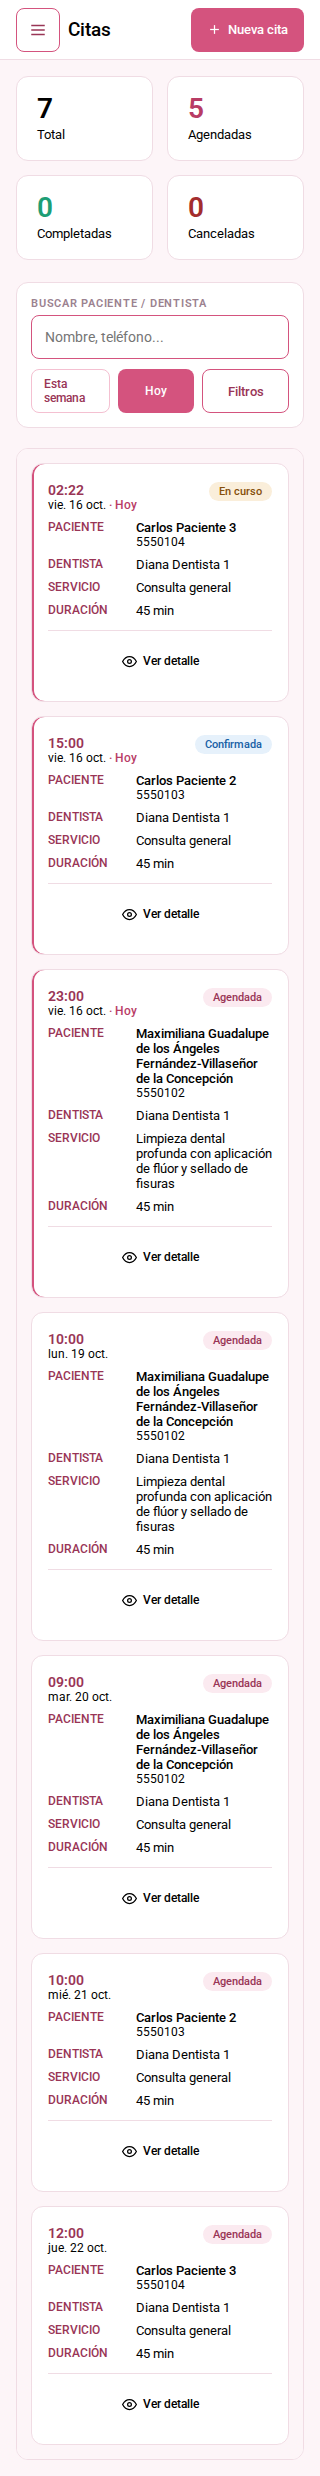
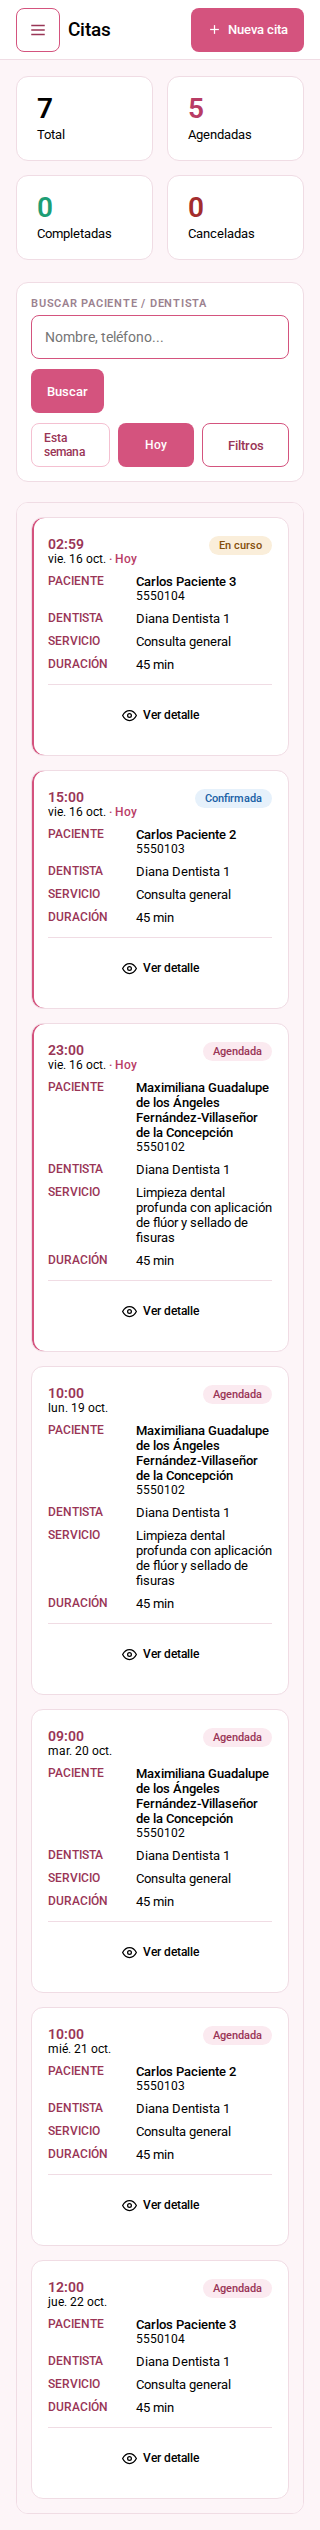
test(034): T046 verificación final de la ronda, capturas de servicios y citas y T092 spec implemented
Cubre: CA2, CA3, CA4, CA5, CA6, CA8, CA10, CA11
Tareas: docs/specs/034-movil-personal/tasks.md

Claude-Session: https://claude.ai/code/session_017sm7frwtJdJ1dPniC2xeL5

diff --git a/docs/specs/034-movil-personal/tasks.md b/docs/specs/034-movil-personal/tasks.md
@@ -141,8 +141,9 @@ Sobre el desglose (el análisis completo está en `plan.md`):
 - [x] T045 Corregir los estilos según T043: `.celda-centrada { text-align: center; }` y `.filtro-citas .field:focus { border-color: var(--border-control); box-shadow: none; }` en el bloque 034 de `app.css`, seguidos de `/* Fin spec 034 */`; `.tabla-tarjetas td { text-align: start; }` en la media query de `movil.css`; y el comentario de `.sidebar-marca` en el layout («logo con máscara (spec 034, D10)» en lugar de «marca de texto») — public/css/app.css, public/css/movil.css, resources/views/layouts/app.blade.php — hecho cuando: los tests de T043 pasan dos veces y `test_el_bloque_034_de_app_css_reproduce_los_estilos_con_tokens`, `test_los_pares_nuevos_cumplen_aa` y `MovilPacienteTest` siguen en verde · verificación manual: al enfocar con el ratón «Desde» y «Estado» del filtro, el borde sigue siendo el de `--border-control`, a 390 y 1440 — cubre: CA4, CA5, CA10, CA11 — depende: T044
   - nota: añadida por /review: R1, R5, R6, R10
   - nota: en la verificación manual, el usuario vio «Buscar» pegado al campo: se añadió `.filtro-buscar .btn { margin-top: var(--space-4); }` en `movil.css` (test antes, falló y luego pasó). Pasan dos veces los tests de T043 y `MovilPacienteTest` (50 en verde). `--medir` con línea base de la sesión: «todo en orden». Con Playwright, al hacer clic en «Desde» y «Estado» a 390 y 1440, el borde queda en `--border-control` (rgb(212, 83, 126)) y sin sombra. Verificación manual OK 2026-10-16 (usuario).
-- [ ] T046 Repetir la verificación final de la ronda: `php artisan test` completo en verde (306 más los nuevos); `pint --test` en `MovilPersonalTest`; `node docs/design/capturar.mjs --medir` con código 0 y la línea base de v0.7.0 de la misma sesión; rehacer con `capturar.mjs` las capturas de `servicios-index` y `citas-index-{admin,dentista,asistente}` a 320, 390 y 1440; gitleaks sobre `5a802e6..HEAD` sin fugas; `composer audit` y `npm audit` sin avisos nuevos; y borrar la base `dentissa_capturas`, sus dos servidores, el volumen `dentissa_pw_node`, la copia `git worktree` de v0.7.0 con su `.env` y la carpeta temporal — docs/design/capturas/ (generado por node capturar.mjs) — hecho cuando: todo lo anterior pasa y queda anotado — cubre: CA2, CA3, CA4, CA5, CA6, CA8, CA10, CA11 — depende: T045
+- [x] T046 Repetir la verificación final de la ronda: `php artisan test` completo en verde (306 más los nuevos); `pint --test` en `MovilPersonalTest`; `node docs/design/capturar.mjs --medir` con código 0 y la línea base de v0.7.0 de la misma sesión; rehacer con `capturar.mjs` las capturas de `servicios-index` y `citas-index-{admin,dentista,asistente}` a 320, 390 y 1440; gitleaks sobre `5a802e6..HEAD` sin fugas; `composer audit` y `npm audit` sin avisos nuevos; y borrar la base `dentissa_capturas`, sus dos servidores, el volumen `dentissa_pw_node`, la copia `git worktree` de v0.7.0 con su `.env` y la carpeta temporal — docs/design/capturas/ (generado por node capturar.mjs) — hecho cuando: todo lo anterior pasa y queda anotado — cubre: CA2, CA3, CA4, CA5, CA6, CA8, CA10, CA11 — depende: T045
   - nota: añadida por /review: verificación de R1–R7, R10 y R11 (`--medir` obligatorio al tocar `movil.css` y el layout, AGENTS.md)
+  - nota: 2026-10-16. `php artisan test`: 310 en verde (5099 aserciones). `pint --test` en `MovilPersonalTest`: pasa. `--medir` con la línea base de v0.7.0 de la misma sesión: código 0, «medir: todo en orden». Capturas rehechas: `servicios-index` a 320 y 390 y `citas-index-{admin,dentista,asistente}` a 320, 390 y 1440 (`servicios-index-1440` sale idéntica). gitleaks sobre `5a802e6..HEAD`: sin fugas. `composer audit` sin avisos; `npm audit` 0. Borrados la base `dentissa_capturas`, los dos servidores, el volumen `dentissa_pw_node`, la copia `git worktree` de v0.7.0 con su `.env` y la carpeta temporal.
 
 ## Integración y documentación
 - [x] T040 Hacer la verificación final: `php artisan test` completo con la línea base de T002 más los tests nuevos, todos en verde; `pint --test` en los PHP tocados; `node docs/design/capturar.mjs --medir` con código 0 (todas las pantallas incluidas y las 7 del paciente de la 033, todos los anchos, 4 roles, sin JS); gitleaks sobre el rango de la spec sin fugas; `composer audit`, `npm audit` y `trivy fs --severity HIGH,CRITICAL` sin avisos nuevos respecto a T002; y la base `dentissa_capturas`, su servidor, el volumen de Playwright, la línea base del escritorio, la copia `git worktree` de v0.7.0 y su `.env` borrados — (sin archivos) — hecho cuando: todo lo anterior pasa y queda anotado — cubre: CA1, CA2, CA3, CA4, CA5, CA6, CA7, CA8, CA9, CA10, CA11 — depende: T033
@@ -154,7 +155,7 @@ Sobre el desglose (el análisis completo está en `plan.md`):
 - [x] T091 Actualizar `docs/deployment.md` y `docs/observability.md` si cambiaron variables, entornos, pasos de deploy, logs, eventos de auditoría o métricas
   - nota: no aplica: sin variables, entornos, pasos de deploy, logs, eventos de auditoría ni métricas nuevos.
   - nota: el plan no prevé cambios (sin variables, migraciones, logs ni métricas); se anota «no aplica» al cerrar.
-- [ ] T092 Marcar spec como `implemented`
+- [x] T092 Marcar spec como `implemented`
   - nota: `status: implemented`, CA1–CA11 marcados en la spec y fila 034 del README de specs.
 
 ## Despliegue (lo ejecuta `/release`)

diff --git a/docs/specs/README.md b/docs/specs/README.md
@@ -35,7 +35,7 @@ y detalles técnicos. Pasan a `approved` solo con confirmación explícita del u
 | 029 | [dependencias-al-dia](029-dependencias-al-dia/spec.md) | Transversal | released (v0.4.1) | — | — (2026-10-03) |
 | 030 | [despliegue-servidor-propio](030-despliegue-servidor-propio/spec.md) | Transversal | released (v0.5.0) | — | — (2026-10-04) |
 | 033 | [movil-paciente](033-movil-paciente/spec.md) | Transversal | released (v0.7.0) | — | — (2026-10-11) |
-| 034 | [movil-personal](034-movil-personal/spec.md) | Transversal | approved | — | — (2026-10-12) |
+| 034 | [movil-personal](034-movil-personal/spec.md) | Transversal | implemented | — | — (2026-10-12) |
 
 Specs previstas (números reservados; se crean con `/specify` una por una):
 - Objetivo 2: 015 portal-paciente-aislado · 016 sesiones-seguras · 017 limite-intentos-acceso ·

diff --git a/docs/specs/034-movil-personal/spec.md b/docs/specs/034-movil-personal/spec.md
@@ -1,7 +1,7 @@
 ---
 id: 034
 slug: movil-personal
-status: approved
+status: implemented
 created: 2026-10-12
 extends: [033]
 ---
